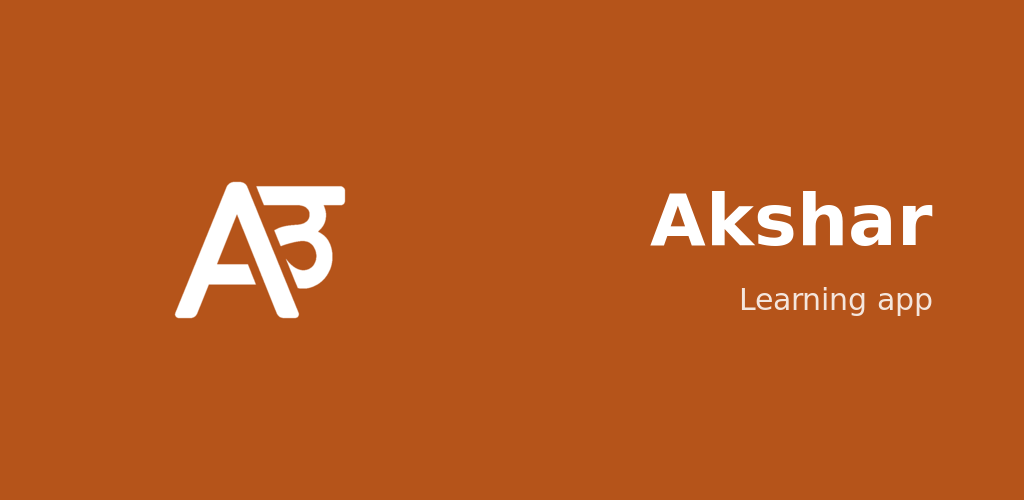
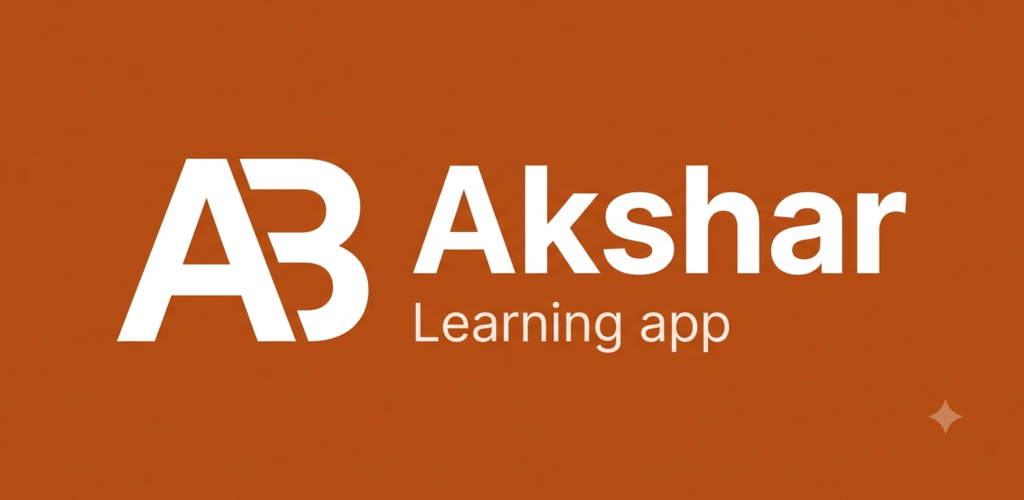
Replace placeholder feature graphic with a real generated one
Generated via Gemini from a prompt grounded in the app's actual brand
assets (exact icon glyph, exact terracotta color, exact existing
"Learning app" tagline) rather than new invented branding, then
cropped/resized to Play Console's exact 1024x500 requirement.

diff --git a/apps/mobile/docs/play-store-readiness.md b/apps/mobile/docs/play-store-readiness.md
@@ -24,10 +24,10 @@ Status: In progress — tracks what's done vs. still needed for a first Play Sto
   worst-case launcher shape). Changed to the same terracotta as the main icon for real contrast.
 - **Play Console store-listing assets** — `assets/images/play-store/icon-512.png` (512×512, the
   size Play Console wants for the listing itself, separate from the in-app launcher icon) and
-  `assets/images/play-store/feature-graphic.png` (1024×500). The feature graphic uses only
-  already-established copy (the "Learning app" tagline already used in-app) — it's a functional
-  placeholder, not a finished marketing asset; swapping in a real screenshot-based version once
-  the app has been used is worth doing later.
+  `assets/images/play-store/feature-graphic.png` (1024×500). Generated via Gemini from a prompt
+  grounded in the app's actual brand assets (exact icon glyph, exact `#B5541A` terracotta, exact
+  existing "Learning app" tagline copy from `splash-view.tsx`) rather than inventing new branding,
+  then cropped/resized to Play Console's exact 1024×500 requirement with ImageMagick.
 - **Privacy policy** — `apps/mobile/PRIVACY_POLICY.md`, publicly viewable on GitHub, linked from
   Settings → About. Play Console requires a privacy policy URL for every app regardless of
   whether it collects data.
